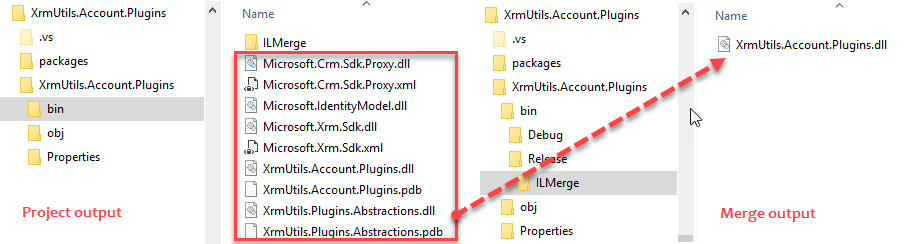
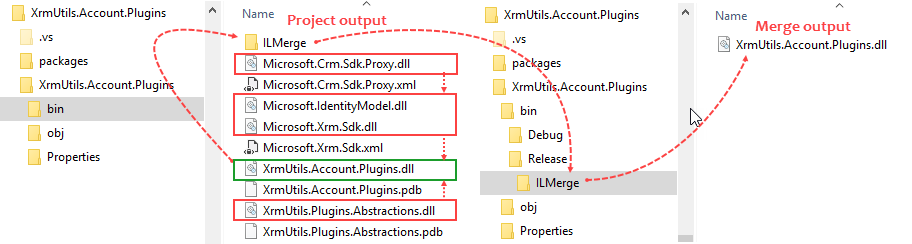
Readme and image update.

diff --git a/README.md b/README.md
@@ -3,8 +3,8 @@ Configurable ILMerge Task for MSBuild
 
 Adds ILMerge to Visual Studio 2013/2015 or automated builds. This Task is intended to work right out of the box however, it supports a configuration file where you can control every ILMerge property including the list of assemblies to be merged.
 
-Installing
-----------
+Getting Started
+---------------
 
 Use Nuget to add ILMerge.MSBuild.Task to your Visual Studio project:
 
@@ -12,37 +12,30 @@ Use Nuget to add ILMerge.MSBuild.Task to your Visual Studio project:
 Install-Package ILMerge.MSBuild.Task
 ```
 
-Build your project. A new ILMerge folder containing the merged assembly will be created in your target folder.
-
-Default Behavior
-----------------
-
-By default all references with *Copy Local* equals *true* are merged with the project output.
-
-![Copy Local Property](Images/copy_local_property.png)
-
-The actual output stays untouched and a new (merged) assemly is created under the ILMerge folder.
-The output directory can be changed through configuration.
+Build your project. The merged assembly will be stored in an ILMerge folder under your project output.
+The output directory is configurable.
 
 ![Project To Merge Output](Images/project_to_merge_output.png)
 
-Refining What Gets Merged
--------------------------
+How it Works
+------------
 
-The default behavior even though handy may not work for everyone.
-You may decide that you don't want to maintain the *Copy Local* attribute which may change after you remove and re-install packages.
-Instead you want to create a static list of assemblies to merge so you can guarantee the same result on every build. This can be done through a configuration file.
+By default all references with *Copy Local* equals *true* are merged with your project output.
+
+![Copy Local Property](Images/copy_local_property.png)
+
+It is also possible to use a static list of assemblies.
+This list can be added to the optional configuration file.
 
 ### Using a Configuration File
 
-On the root of your project create a file called:
+On the root of your project create a file named:
 
 ```
 ILMergeConfig.json
 ```
 
-This snippet will instruct the Task to ignore the *Copy Local* property and use the files from this list instead.
-See Configuration File section for a complete reference.
+This snippet instructs the Task to ignore *Copy Local* and use the files listed in the *InputAssemblies* property.
 
 ```javascript
 {
@@ -55,10 +48,9 @@ See Configuration File section for a complete reference.
 }
 ```
 
-Note the use of a variable which will be replaced at runtime with the target folder.
-See the project wiki for a list of available variables.
+See the wiki for a complete reference of [Configuration File](https://github.com/emerbrito/ILMerge-MSBuild-Task/wiki/Config-File).
 
-Configuration File
-------------------
+Project Wiki
+------------
 
-See the project wiki for more details on the cofiguration file.
+See the project wiki for documentation.
